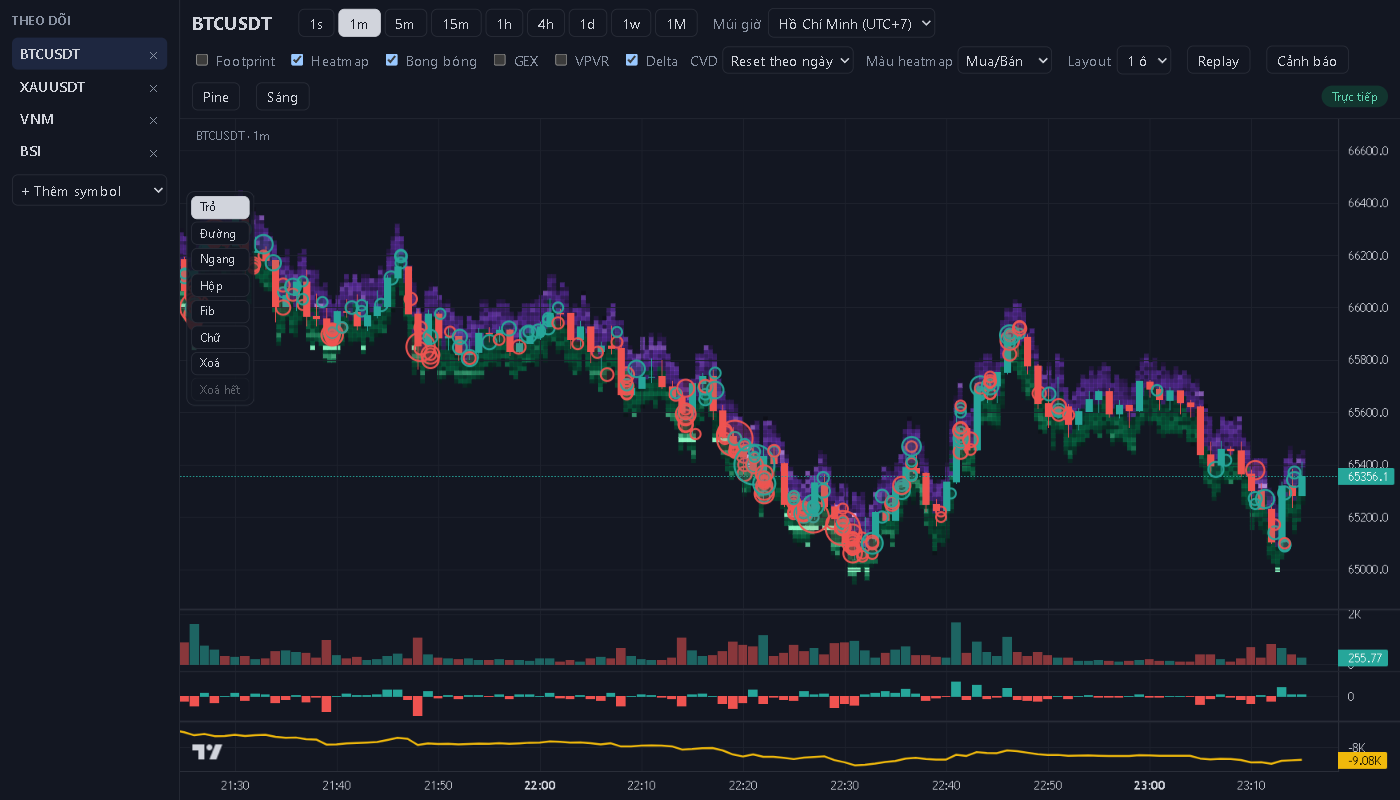
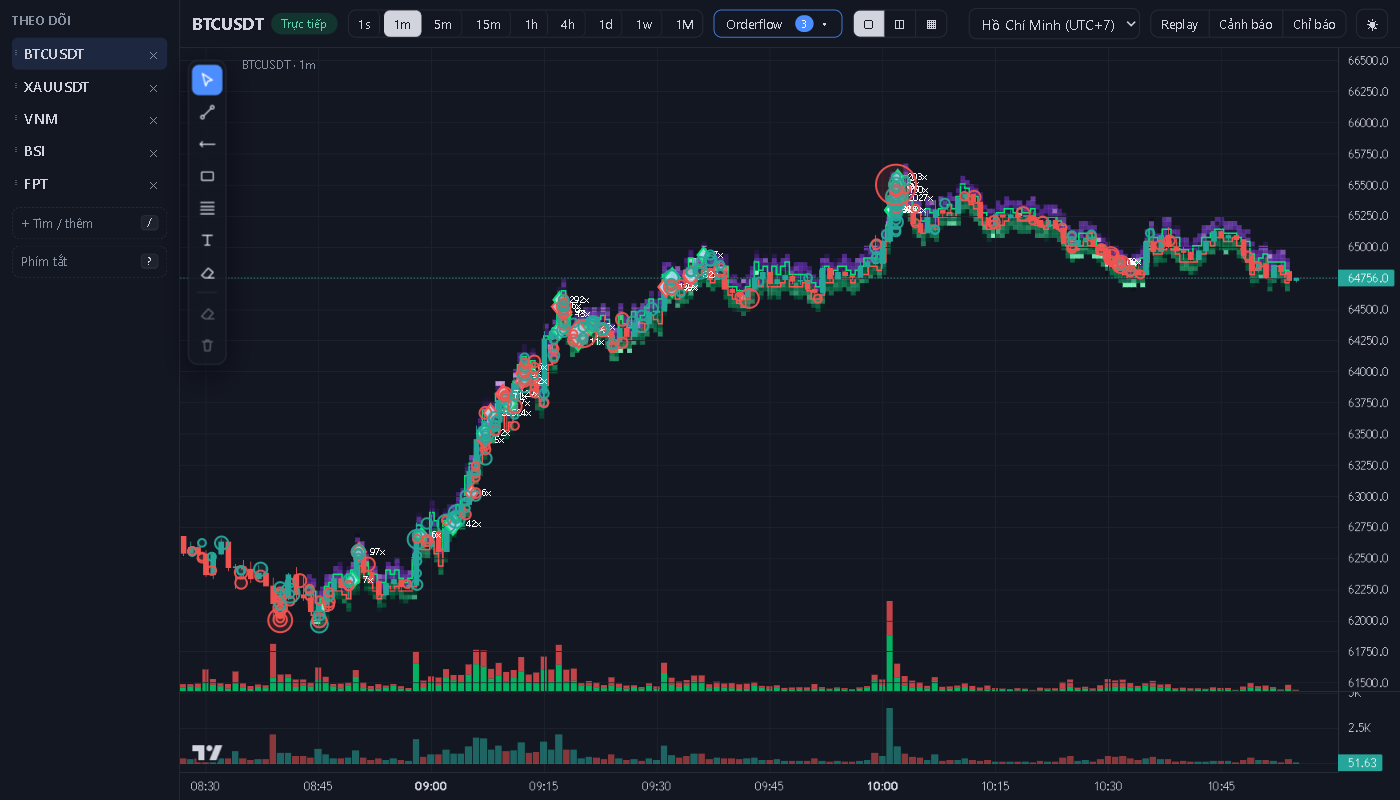
docs: chụp lại ảnh giao diện mới, thêm ảnh hộp thêm chỉ báo và cài đặt; sửa bố cục GEX, layout nhiều ô, tab cột phải

diff --git a/web/src/IndicatorSettings.tsx b/web/src/IndicatorSettings.tsx
@@ -20,28 +20,28 @@ type Tab = 'inputs' | 'style' | 'vis'
 export default function IndicatorSettings({ ind, run, onPatch, onClose }: Props) {
   const [tab, setTab] = useState<Tab>('inputs')
   const snap = useRef({ inputs: ind.inputs, style: ind.style, tfs: ind.tfs, scaleLabels: ind.scaleLabels })
-  const first = useRef<HTMLButtonElement>(null)
+  const box = useRef<HTMLDivElement>(null)
   const cancel = () => {
     const s = snap.current
     const inputsChanged = JSON.stringify(s.inputs) !== JSON.stringify(ind.inputs)
     onPatch({ inputs: s.inputs, style: s.style, tfs: s.tfs, scaleLabels: s.scaleLabels }, inputsChanged)
     onClose()
   }
-  useEffect(() => { first.current?.focus() }, [])
+  useEffect(() => { box.current?.focus() }, [])
   const res = run?.result
   const dirty = Object.keys(ind.inputs).length > 0 || Object.keys(ind.style ?? {}).length > 0 || !!ind.tfs || !!ind.scaleLabels
 
   return createPortal(
     <div className="modal" role="presentation" onMouseDown={(e) => { if (e.target === e.currentTarget) onClose() }}>
-      <div className="setdlg" role="dialog" aria-modal="true" aria-label={`Cài đặt ${ind.name}`}
+      <div className="setdlg" ref={box} tabIndex={-1} role="dialog" aria-modal="true" aria-label={`Cài đặt ${ind.name}`}
         onKeyDown={(e) => { if (e.key === 'Escape') { e.stopPropagation(); cancel() } }}>
         <header>
           <h2 title={ind.name}>{ind.name}</h2>
           <button className="ibtn" onClick={cancel} aria-label="Đóng và huỷ thay đổi" title="Huỷ (Esc)"><Icon name="x" size={16} /></button>
         </header>
         <div className="tabs line" role="tablist" aria-label="Thiết lập">
-          {([['inputs', 'Tham số'], ['style', 'Kiểu dáng'], ['vis', 'Hiển thị']] as [Tab, string][]).map(([id, label], i) => (
-            <button key={id} ref={i === 0 ? first : undefined} role="tab" aria-selected={tab === id} className={tab === id ? 'on' : ''} onClick={() => setTab(id)}>{label}</button>
+          {([['inputs', 'Tham số'], ['style', 'Kiểu dáng'], ['vis', 'Hiển thị']] as [Tab, string][]).map(([id, label]) => (
+            <button key={id} role="tab" aria-selected={tab === id} className={tab === id ? 'on' : ''} onClick={() => setTab(id)}>{label}</button>
           ))}
         </div>
         <div className="setbody">

diff --git a/web/src/styles.css b/web/src/styles.css
@@ -502,3 +502,21 @@ kbd { font: 11px ui-monospace, Consolas, monospace; border: 1px solid var(--line
   .indrow .indbtns { visibility: visible !important; position: static !important; }
 }
 @media (hover: none) { .indrow .indbtns { visibility: visible !important; position: static !important; } }
+
+/* Ghi chú GEX nằm góc trên bên phải, để không bị thanh vẽ và chú giải chỉ báo che */
+.gexnote { left: auto; right: 64px; top: 6px; max-width: min(520px, calc(100% - 420px)); text-align: right; }
+@media (max-width: 900px) { .gexnote { left: 56px; right: auto; top: 28px; max-width: calc(100% - 130px); text-align: left; } }
+
+/* Cột phải rộng hơn để đủ 5 tab của chiến lược (Tham số, Kiểu dáng, Hiển thị, Backtest, Kết quả) */
+.dock-body { grid-template-columns: 260px minmax(0, 1fr) 352px; }
+.dock-right .tabs button { padding: 5px 7px; font-size: 12px; }
+@media (max-width: 1100px) { .dock-body { grid-template-columns: 220px minmax(0, 1fr) 320px; } }
+@media (max-width: 900px) { .dock-body { grid-template-columns: 1fr; } }
+.setdlg:focus { outline: none; }
+
+/* Layout nhiều ô: thanh vẽ nằm ngang để không phủ hết chiều cao của ô nhỏ */
+.cells-2 .draw-tools, .cells-4 .draw-tools { flex-direction: row; width: auto; top: 30px; left: 6px; padding: 2px; }
+.cells-2 .draw-tools .sep, .cells-4 .draw-tools .sep { width: 1px; height: 20px; margin: 0 3px; }
+.cells-2 .draw-tools button, .cells-4 .draw-tools button { width: 26px; height: 26px; }
+.cells-2 .legend, .cells-4 .legend { left: 10px; }
+.cells-2 .indlegend, .cells-4 .indlegend { top: 64px; left: 8px; }

diff --git a/README.md b/README.md
@@ -28,11 +28,11 @@ Việc còn mở và thứ tự ưu tiên: xem [`TODO.md`](TODO.md). Kế hoạc
 
 ## Giao diện
 
-Thanh trên cùng chỉ có một hàng: symbol và trạng thái trực tiếp, khung thời gian, nút **Chỉ báo**, bố cục 1/2/4 ô, múi giờ, Replay, Cảnh báo, Pine, đổi sáng/tối. Mọi tính năng orderflow nằm trong bảng **Chỉ báo**: có 4 mẫu dựng sẵn (Sạch, Footprint, Bookmap, Profile), công tắc có mô tả một dòng, thanh trượt cho ngưỡng cắt, cỡ chấm, imbalance; tuỳ chọn chi tiết chỉ hiện khi bật tính năng; tính năng không dùng được cho symbol hiện tại (ví dụ cổ phiếu VN không có tick) bị làm mờ kèm giải thích. Bảng đóng bằng Esc hoặc bấm ra ngoài. Thanh vẽ ở mép trái dùng biểu tượng kèm gợi ý khi rê chuột; trên điện thoại thanh này nằm ngang và các nút tự gọn lại.
+Thanh trên cùng chỉ có một hàng: symbol và trạng thái trực tiếp, khung thời gian, nút **Orderflow**, bố cục 1/2/4 ô, múi giờ, Replay, Cảnh báo, **Chỉ báo** (Pine), đổi sáng/tối. Mọi tính năng orderflow nằm trong bảng **Orderflow**: có 4 mẫu dựng sẵn (Sạch, Footprint, Bookmap, Profile), công tắc có mô tả một dòng, thanh trượt cho ngưỡng cắt, cỡ chấm, imbalance; tuỳ chọn chi tiết chỉ hiện khi bật tính năng; tính năng không dùng được cho symbol hiện tại (ví dụ cổ phiếu VN không có tick) bị làm mờ kèm giải thích. Bảng đóng bằng Esc hoặc bấm ra ngoài. Thanh vẽ ở mép trái dùng biểu tượng kèm gợi ý khi rê chuột; trên điện thoại thanh này nằm ngang và các nút tự gọn lại.
 
-![Bảng Chỉ báo](docs/screenshots/indicators-menu.png)
+![Bảng Orderflow](docs/screenshots/indicators-menu.png)
 
-**Tìm symbol và phím tắt**: bấm `/` hoặc `Ctrl+K` để tìm theo mã (gõ một phần là lọc, mũi tên chọn, Enter mở; mã chưa theo dõi sẽ được thêm). `[` và `]` đổi khung thời gian, `T` đổi sáng/tối, `?` xem danh sách phím, `Ctrl+Enter` chạy script Pine, `Esc` đóng bảng.
+**Tìm symbol và phím tắt**: bấm `/` hoặc `Ctrl+K` để tìm theo mã (gõ một phần là lọc, mũi tên chọn, Enter mở; mã chưa theo dõi sẽ được thêm). `[` và `]` đổi khung thời gian, `T` đổi sáng/tối, `I` mở hộp thêm chỉ báo, `?` xem danh sách phím, `Ctrl+Enter` chạy script Pine, `Esc` đóng bảng.
 
 ![Tìm symbol](docs/screenshots/symbol-search.png)
 
@@ -68,7 +68,15 @@ Kiểu màu **Mua/Bán**: lệnh mua chờ màu xanh lá, lệnh bán chờ màu
 
 ![Pine và backtest](docs/screenshots/pine-backtest.png)
 
-**Nhiều chỉ báo Pine cùng lúc**: nút **Chỉ báo** (phím `I`) mở bảng quản lý. Bên trái là danh sách đang dùng (ẩn/hiện, xoá) và Thư viện có ô tìm, thêm một chạm; giữa là trình soạn mã; bên phải là tham số tự sinh từ script (nhóm theo `group`, thanh trượt khi có min/max, ô tìm khi có nhiều tham số), backtest và thống kê. Trên biểu đồ có chú giải chỉ báo (ẩn/hiện, cài đặt nhanh, sửa mã, xoá). Danh sách chỉ báo, tham số và script của bạn (Lưu vào thư viện) nhớ trong trình duyệt; đổi symbol hoặc khung thì mọi chỉ báo đang hiện tự chạy lại.
+**Thêm chỉ báo**: nút **Chỉ báo** hoặc phím `I` mở hộp thêm chỉ báo. Ô tìm tự focus, phần khớp được tô màu, cột trái phân loại (tất cả, yêu thích, script của tôi, chỉ báo và chiến lược có sẵn). Bấm một dòng hoặc nhấn Enter để thêm, hộp không đóng nên thêm được nhiều chỉ báo liền nhau; dấu ✓ cho biết đã có trên biểu đồ. Ngôi sao ghim script yêu thích.
+
+![Thêm chỉ báo](docs/screenshots/indicator-picker.png)
+
+**Chú giải và cài đặt**: mỗi chỉ báo có một dòng trên biểu đồ với tham số và giá trị cuối tô theo màu đường. Rê chuột để hiện nút ẩn, cài đặt, sửa mã, xoá và menu ⋯ (nhân bản). Nhấp đúp vào tên hoặc bấm bánh răng để mở hộp **Cài đặt** với ba tab: Tham số (tự sinh từ script, nhóm theo `group`, thanh trượt khi có min/max), Kiểu dáng (bật tắt, màu, độ đục, độ dày, nét cho từng đường, mức ngang, tín hiệu và vùng tô) và Hiển thị (chỉ hiện ở những khung nào, nhãn giá trị trên thang giá). Thay đổi áp ngay để xem trước; Huỷ trả về lúc mở hộp, OK giữ lại, Mặc định đặt lại.
+
+![Cài đặt chỉ báo](docs/screenshots/indicator-settings.png)
+
+**Soạn mã Pine**: nút `</>` trên chú giải hoặc "Soạn mã" trong hộp thêm chỉ báo mở bảng ở dưới biểu đồ. Bên trái là danh sách đang dùng và thư viện, giữa là trình soạn mã có số dòng và dòng lỗi đánh dấu đỏ, bên phải là tham số, kiểu dáng, hiển thị, và với chiến lược thêm tab Backtest và Kết quả. Kéo thanh trên cùng để đổi chiều cao. Danh sách chỉ báo, tham số, kiểu dáng và script của bạn (Lưu vào thư viện) nhớ trong trình duyệt; đổi symbol hoặc khung thì mọi chỉ báo đang hiện tự chạy lại.
 
 ![Quản lý chỉ báo](docs/screenshots/indicators-manager.png)
 
